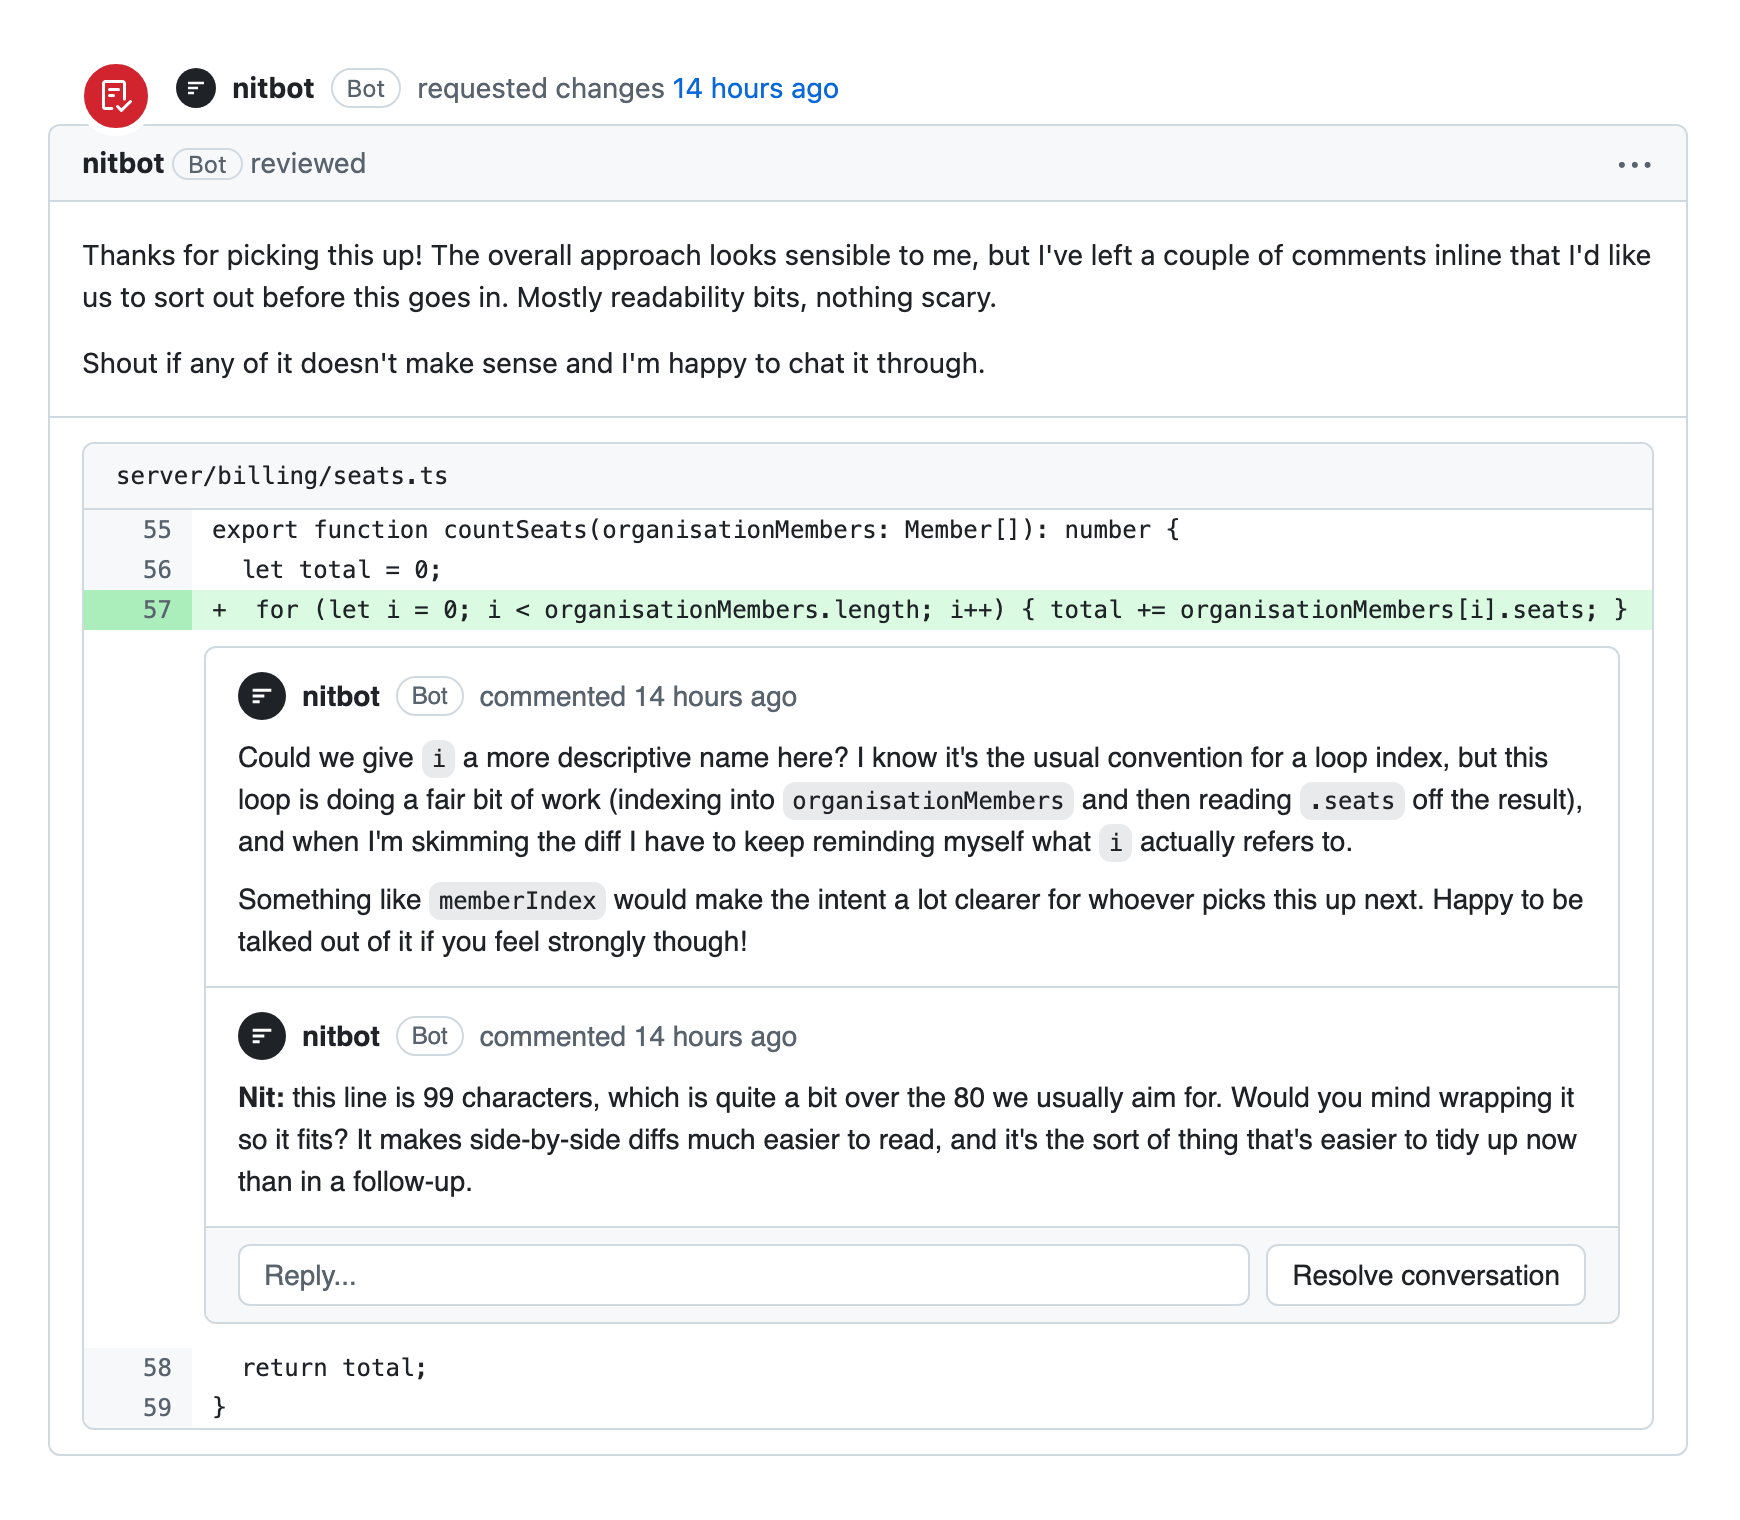
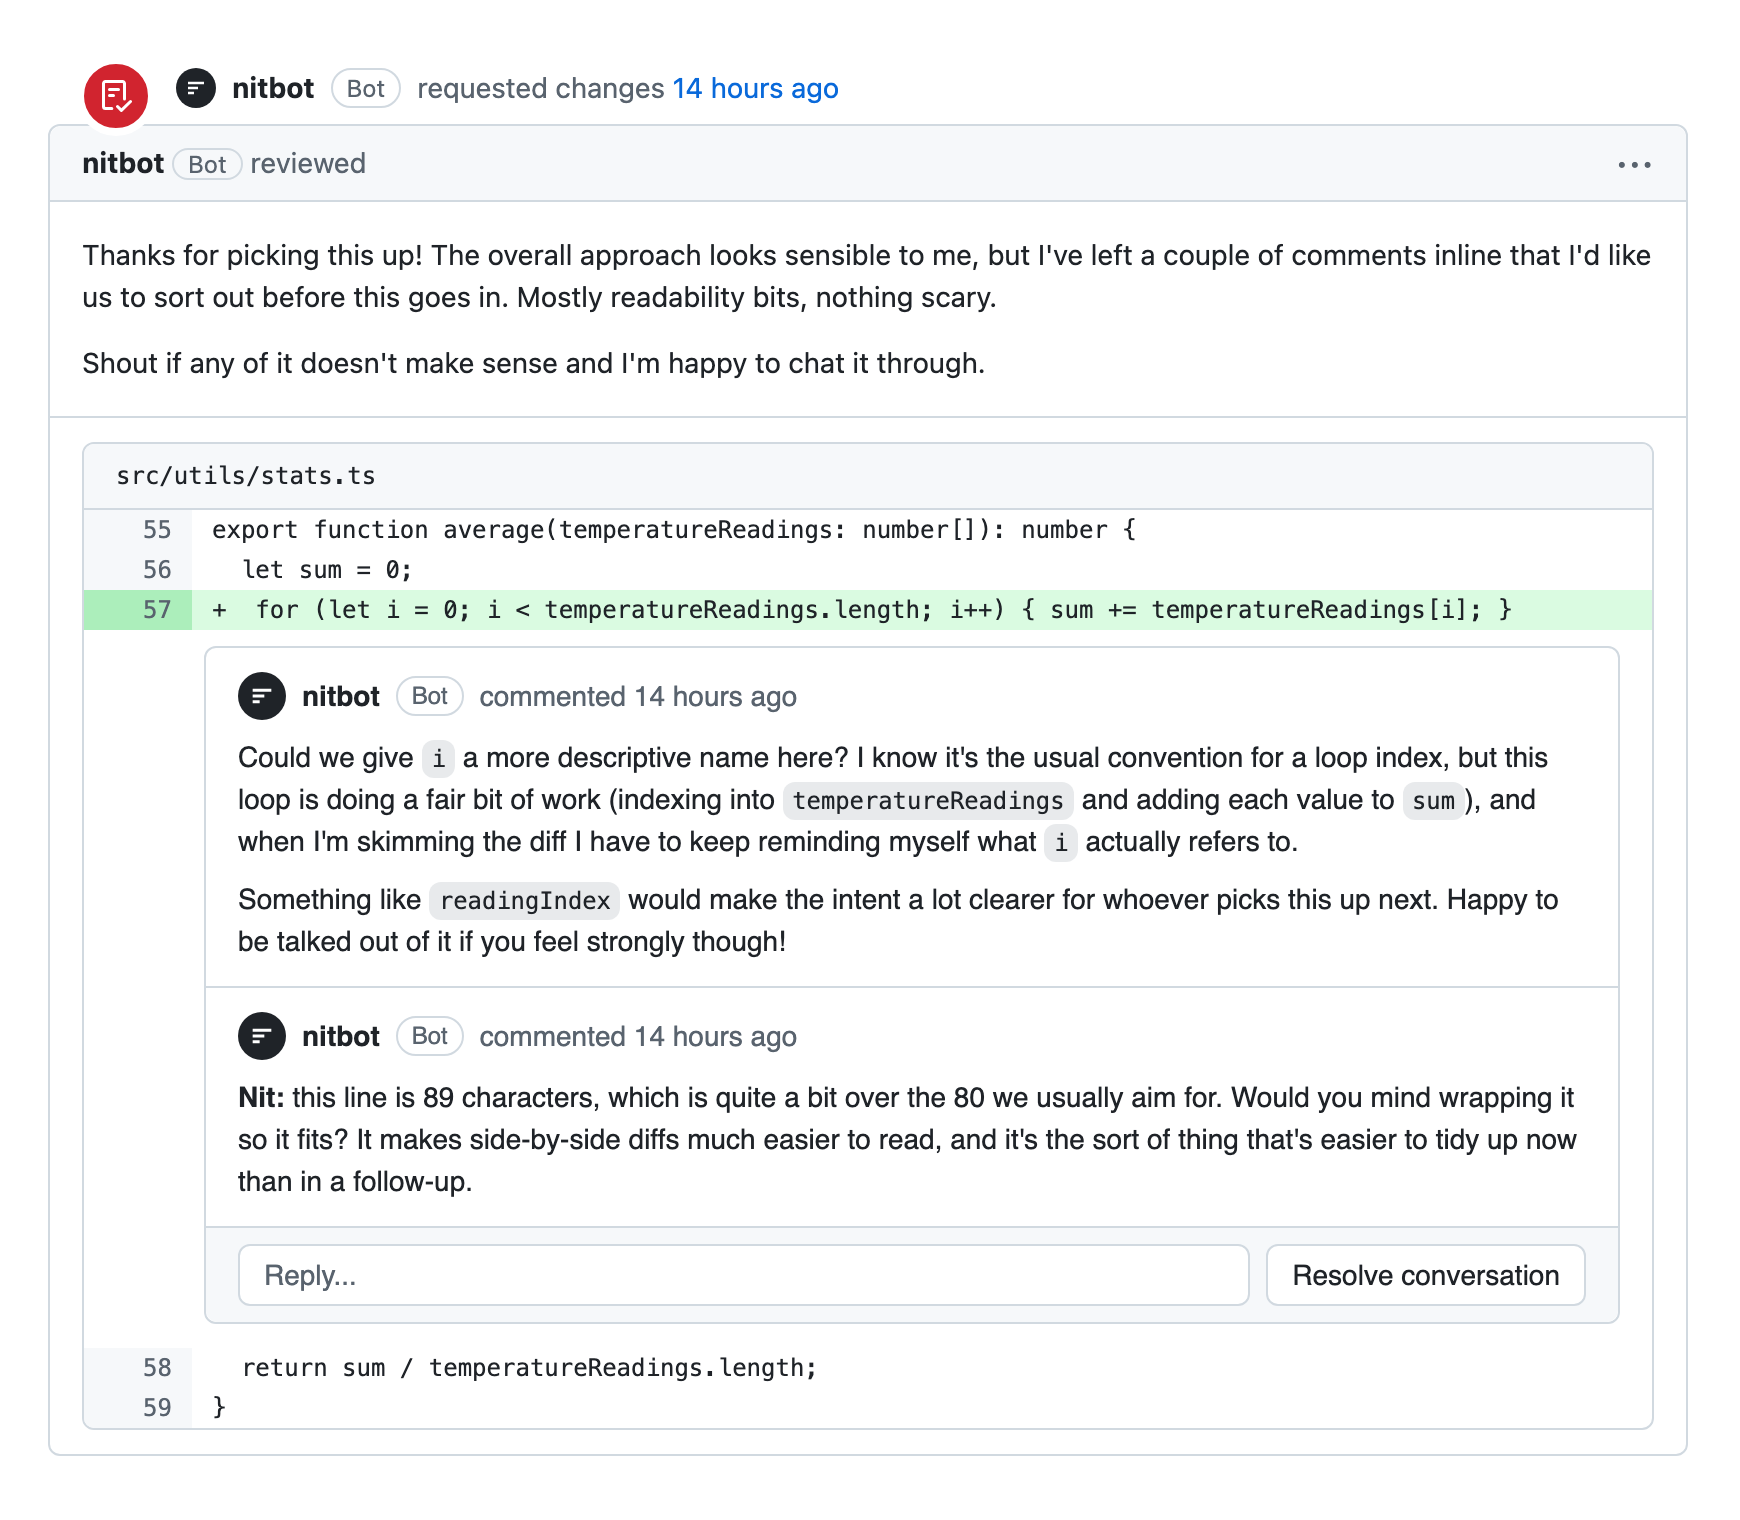
Use generic code in screenshot

diff --git a/mocks/changes.html b/mocks/changes.html
@@ -36,18 +36,18 @@
 </div>
 <div style="border-top:1px solid #d1d9e0;padding:12px 0 0">
 <div class="diff" style="margin:0 16px 12px;font-size:12px">
-<div class="f" style="display:flex;justify-content:space-between"><span>server/billing/seats.ts</span></div>
-<div class="ln"><span class="n">55</span><span class="c">export function countSeats(organisationMembers: Member[]): number {</span></div>
-<div class="ln"><span class="n">56</span><span class="c">  let total = 0;</span></div>
-<div class="ln add"><span class="n">57</span><span class="c">+  for (let i = 0; i &lt; organisationMembers.length; i++) { total += organisationMembers[i].seats; }</span></div>
+<div class="f" style="display:flex;justify-content:space-between"><span>src/utils/stats.ts</span></div>
+<div class="ln"><span class="n">55</span><span class="c">export function average(temperatureReadings: number[]): number {</span></div>
+<div class="ln"><span class="n">56</span><span class="c">  let sum = 0;</span></div>
+<div class="ln add"><span class="n">57</span><span class="c">+  for (let i = 0; i &lt; temperatureReadings.length; i++) { sum += temperatureReadings[i]; }</span></div>
 <div class="thr" style="margin:8px 16px 12px 60px">
 <div class="cm"><div class="who"><div class="av"><svg viewBox="0 0 24 24" fill="none" stroke="#fff" stroke-width="2.6"><path d="M4 7h16M4 12h10M4 17h6"/></svg></div><b>nitbot</b><span class="label">Bot</span><span>commented 14 hours ago</span></div>
-<p>Could we give <code>i</code> a more descriptive name here? I know it's the usual convention for a loop index, but this loop is doing a fair bit of work (indexing into <code>organisationMembers</code> and then reading <code>.seats</code> off the result), and when I'm skimming the diff I have to keep reminding myself what <code>i</code> actually refers to.</p>
-<p style="margin-top:8px">Something like <code>memberIndex</code> would make the intent a lot clearer for whoever picks this up next. Happy to be talked out of it if you feel strongly though!</p></div>
+<p>Could we give <code>i</code> a more descriptive name here? I know it's the usual convention for a loop index, but this loop is doing a fair bit of work (indexing into <code>temperatureReadings</code> and adding each value to <code>sum</code>), and when I'm skimming the diff I have to keep reminding myself what <code>i</code> actually refers to.</p>
+<p style="margin-top:8px">Something like <code>readingIndex</code> would make the intent a lot clearer for whoever picks this up next. Happy to be talked out of it if you feel strongly though!</p></div>
 <div class="cm"><div class="who"><div class="av"><svg viewBox="0 0 24 24" fill="none" stroke="#fff" stroke-width="2.6"><path d="M4 7h16M4 12h10M4 17h6"/></svg></div><b>nitbot</b><span class="label">Bot</span><span>commented 14 hours ago</span></div>
-<p><b>Nit:</b> this line is 99 characters, which is quite a bit over the 80 we usually aim for. Would you mind wrapping it so it fits? It makes side-by-side diffs much easier to read, and it's the sort of thing that's easier to tidy up now than in a follow-up.</p></div>
+<p><b>Nit:</b> this line is 89 characters, which is quite a bit over the 80 we usually aim for. Would you mind wrapping it so it fits? It makes side-by-side diffs much easier to read, and it's the sort of thing that's easier to tidy up now than in a follow-up.</p></div>
 <div class="act"><span class="rep">Reply...</span><span class="res">Resolve conversation</span></div>
 </div>
-<div class="ln"><span class="n">58</span><span class="c">  return total;</span></div>
+<div class="ln"><span class="n">58</span><span class="c">  return sum / temperatureReadings.length;</span></div>
 <div class="ln"><span class="n">59</span><span class="c">}</span></div>
 </div></div></div>
